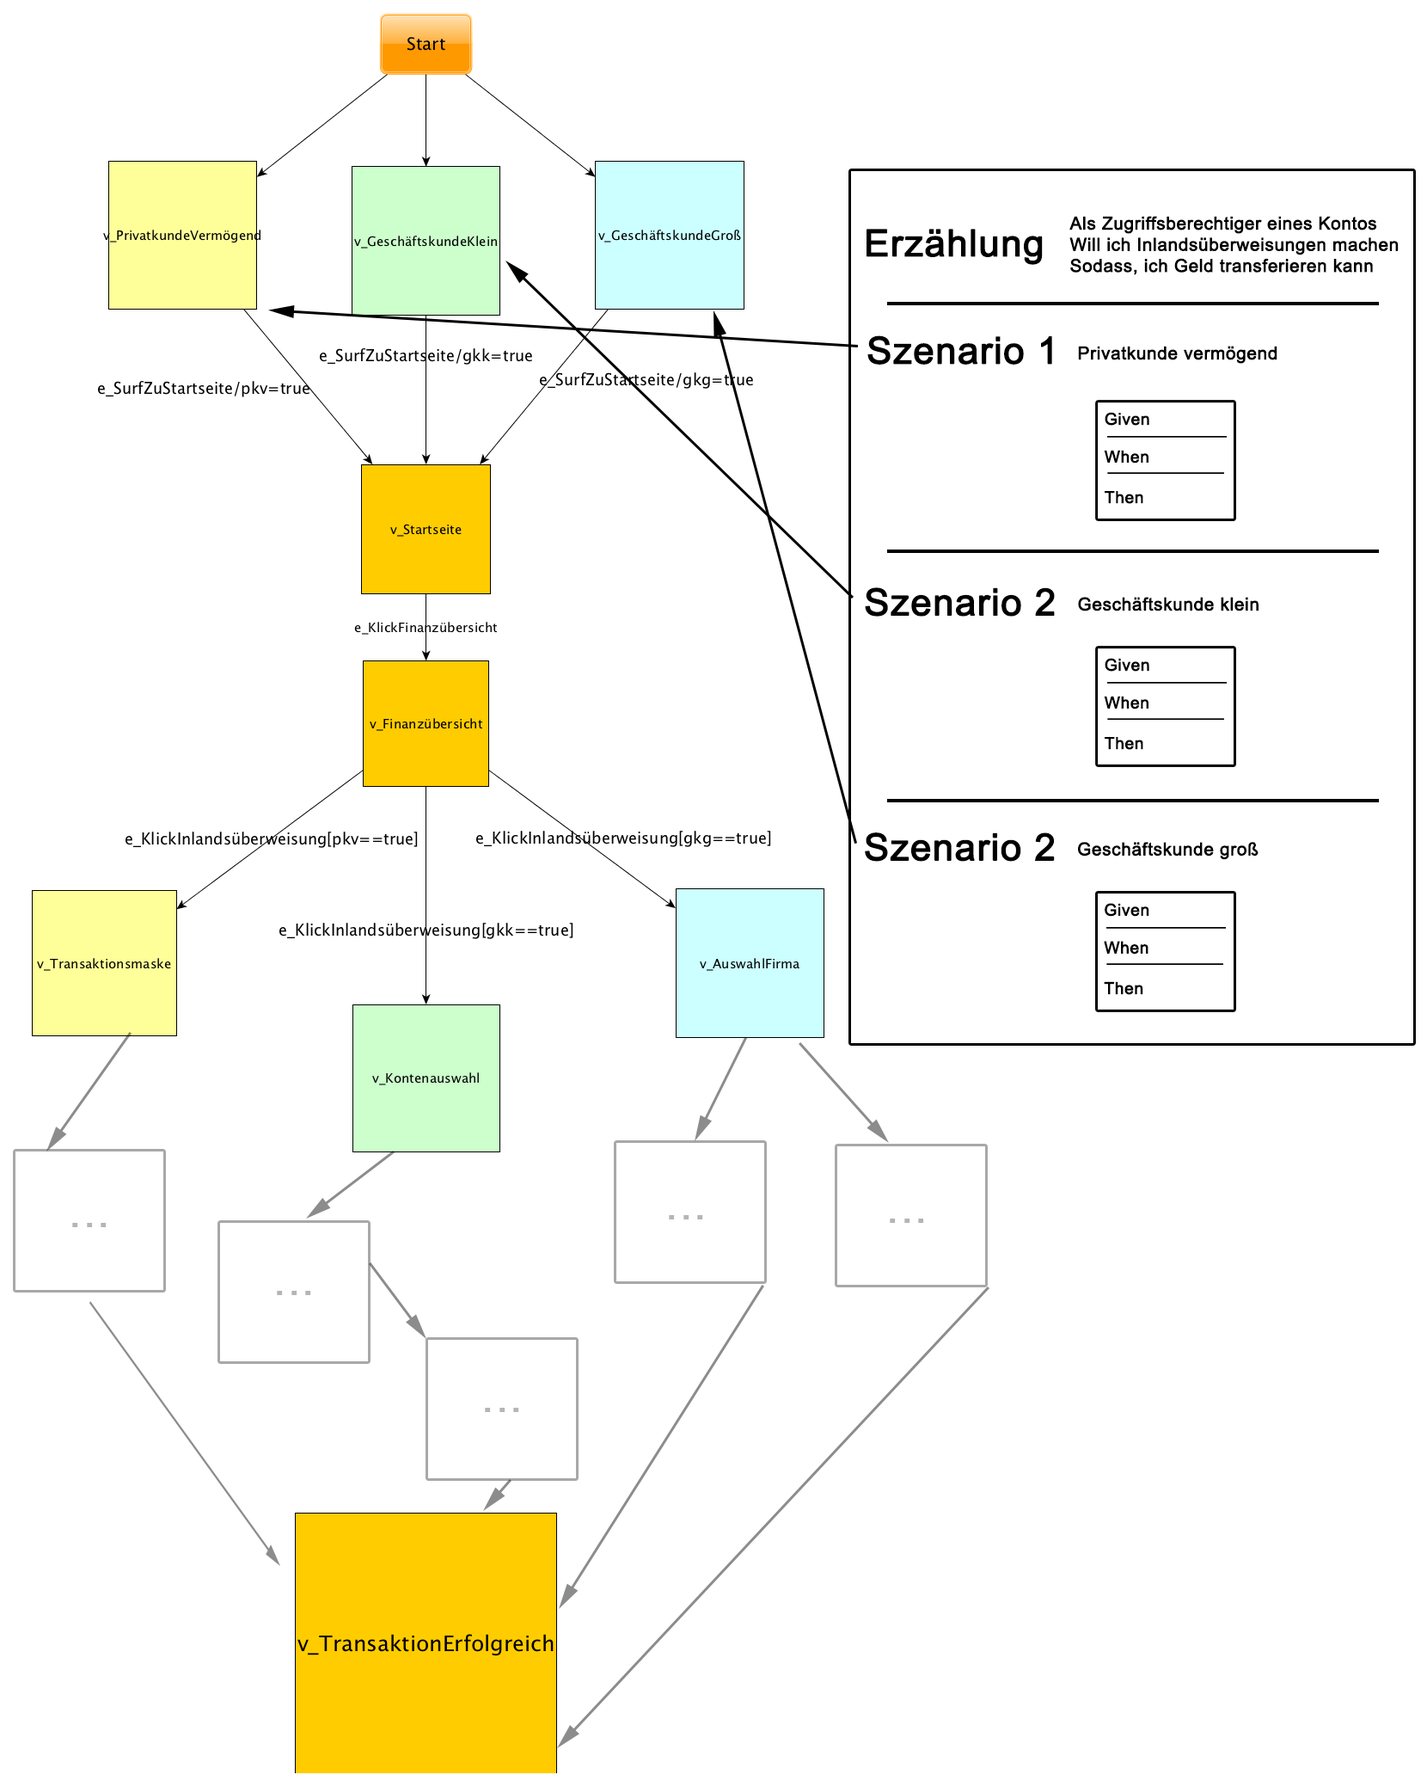
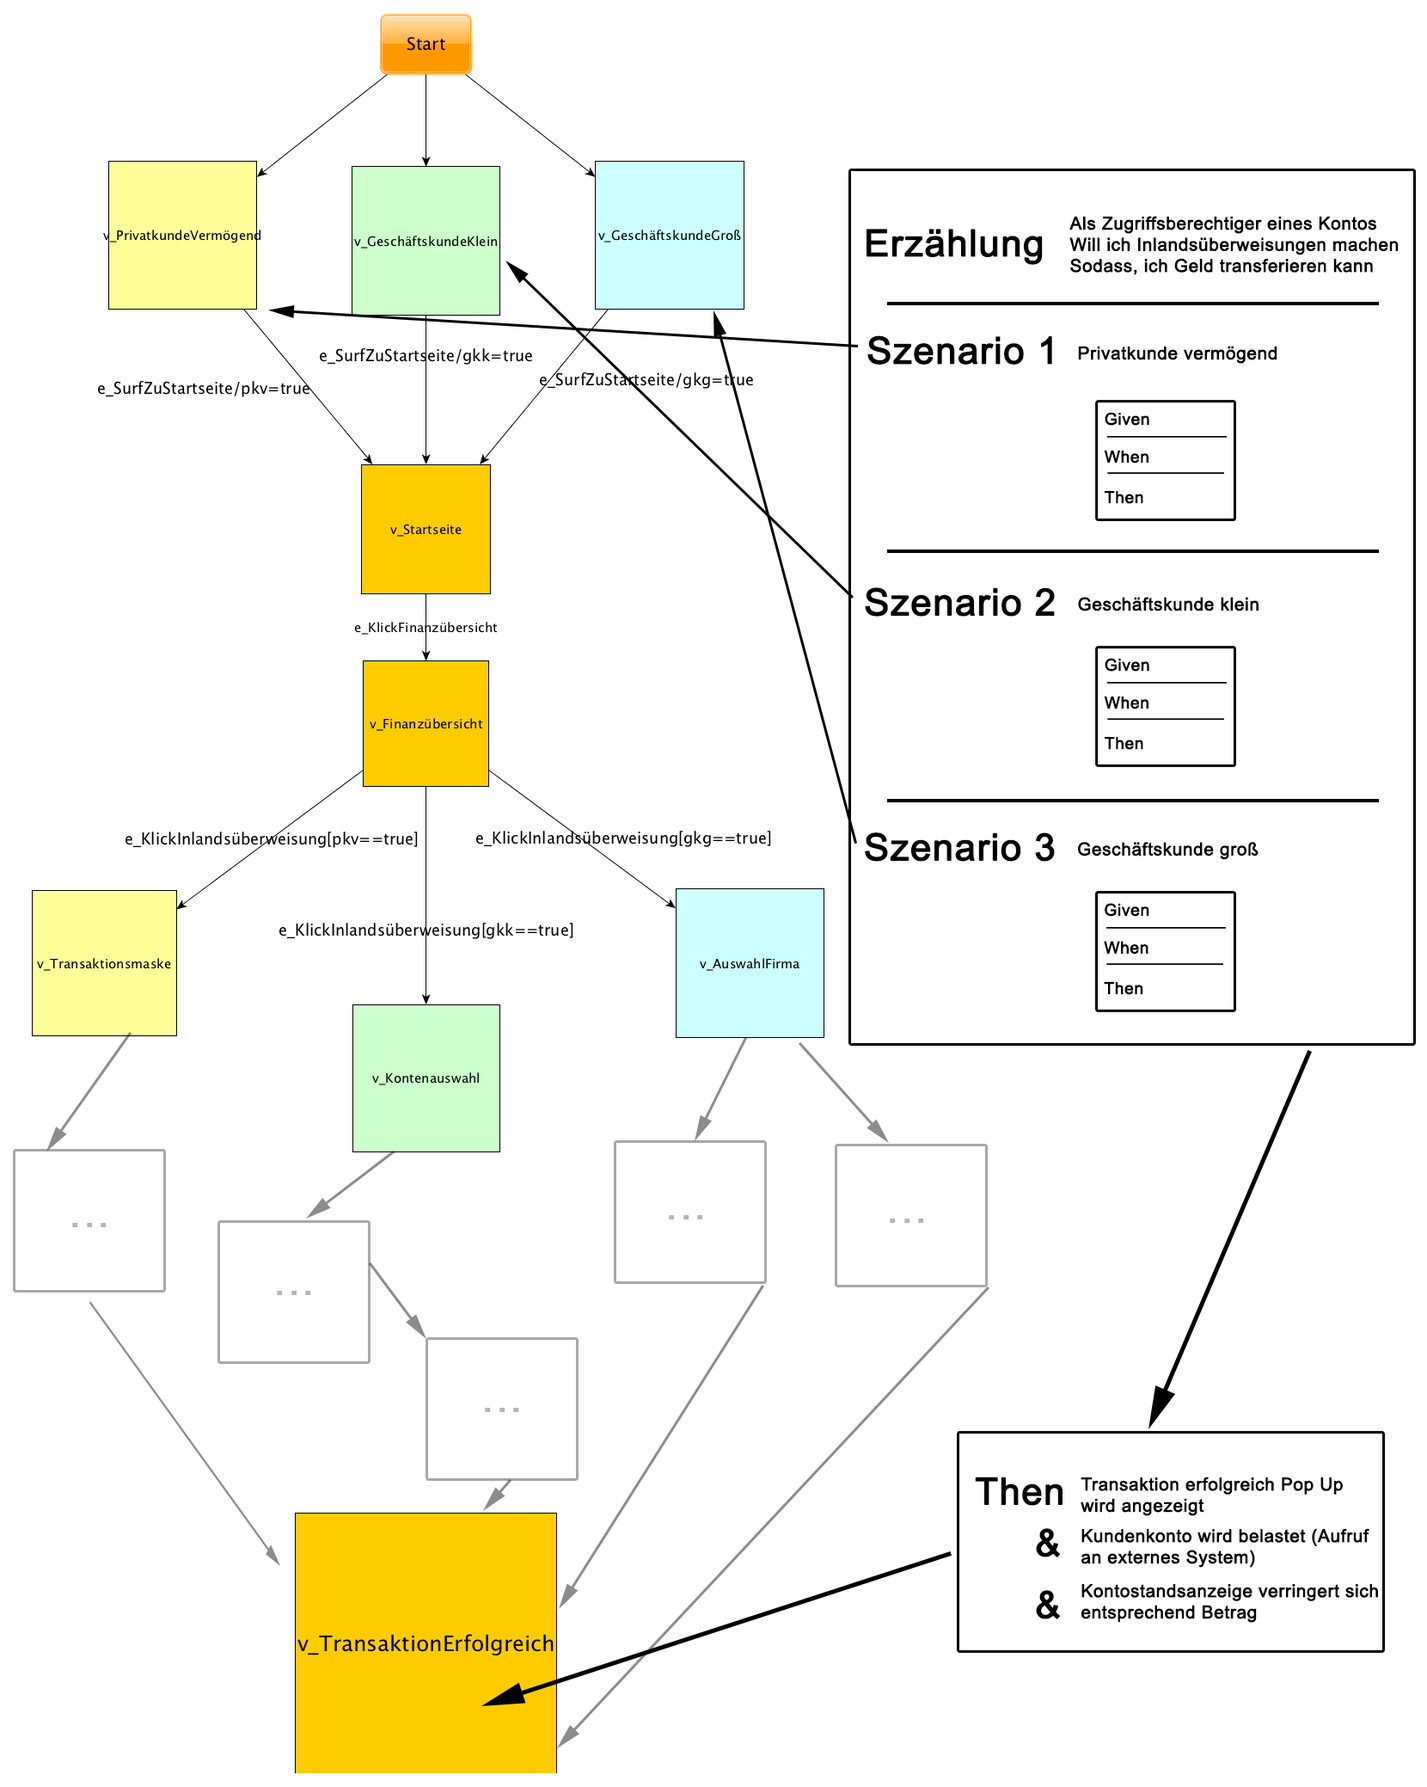
MBT/BDT section finalisiert, Kombination MBT/BDT auf Feedback hin überarbeitet

diff --git a/chapters/results.tex b/chapters/results.tex
@@ -235,11 +235,18 @@ public void v_Proposal_0() {
 
 \subsubsection{Modellbasierte Tests auf niedrigeren Ebenen} Dieses Beispiel zeigte die Mächtigkeit von Graphwalker in Verbindung mit einem Framework für das GUI-Testing. Statt eines GUI-Testing-Frameworks können aber beliebige andere Frameworks für den Adapter-Code verwendet werden. Damit wird das Testing auch auf Schnittstellen- und sogar auf Unit-Testebene möglich. In Verbindung mit einer sinnvollen Testing API zum \Gls{SUT}, können aber genauso Tests der Businesslogik modelliert werden. Also eine Art Unit-Test aus Sicht des Fachbereichs in Form eines Modells. Denkbar sind Abläufe wie das Laden eines Kunden, die Modifikation seiner Stammdaten und die abschließende Überprüfung ob diese Modifikationen fehlerfrei abgelegt wurden. Die Modelle lassen eine unbegrenzte Komplexität zu. Seltene, lange aber geschäftskritische Workflows lassen sich damit sehr gut darstellen.
 
-\section{Ausführung von BDT Tests innerhalb von MBT Tests}
+%%%%%%%%%%%%%%%%%%%%%%%%%%%%%%%%%%%%%%%%%%%%%%%%%%%
+\section{Stärken der Kombination von MBT und BDT}
+\label{sec:mbt_bdt}
 \todo[inline,color=yellow]{@Boris NEU HINZUGEKOMMEN ganze section}
+%%%%%%%%%%%%%%%%%%%%%%%%%%%%%%%%%%%%%%%%%%%%%%%%%%%%%%%
 
-Wie stark die Verwendung der drei Komponenten (FluentCoS, Testing API, MBT) dieses Konzepts ineinander verzahnt werden muss fallabhängig entschieden werden. Denkbar ist einerseits ein vollständig isolierter Entwurf und Einsatz von \Gls{BDT} und \Gls{MBT}. Beide Sorten von Tests können unabhängig voneinander betrieben und gewartet werden. Außerdem können \Gls{BDT} und \Gls{MBT} auf den reichen Katalog der Testing API zugreifen. Somit lässt sich viel Wartungsaufwand für die Anpassung von Adapter-Code an einer Stelle, in der Testing API, konzentrieren.\\
-Geht man einen Schritt weiter, kann es Sinn machen die strukturellen Ähnlichkeiten zwischen \Gls{BDT} und \Gls{MBT} Tests zu nutzen. Wie in Kapitel \ref{sec:bdd} erklärt, haben \Gls{BDT} Tests eine sehr einheitliche Form. Ausgehend von einem Startzustand, werden eine oder mehrere Aktionen durchgeführt, bis ein definierter Endzustand erreicht wird. Man stelle sich einen \Gls{BDT} Test als einfachen Pfad innerhalb eines Graphen vor.Tatsächlich könnte ein solcher Test in ein \Gls{MBT} Modell transformiert werden. Ein beträchtlicher Teil des Modells würde aber wahrscheinlich nur dazu dienen das \Gls{SUT} in den Startzustand zu führen. Im Gegensatz zum \Gls{BDT} Test, in dem dieser in der Regel sehr schnell aber dafür unpräziser definiert werden kann.
+Wie stark die Verwendung der drei Komponenten (FluentCoS, Testing API, MBT) dieses Konzepts ineinander verzahnt werden muss fallabhängig entschieden werden. Denkbar ist einerseits ein vollständig isolierter Entwurf und Einsatz von \Gls{BDT} und \Gls{MBT}. Beide Sorten von Tests können unabhängig voneinander betrieben und gewartet werden. Außerdem können \Gls{BDT} und \Gls{MBT} auf den reichen Katalog der Testing API zugreifen. Somit lässt sich viel Wartungsaufwand für die Anpassung von Adapter-Code an einer Stelle, in der Testing API, konzentrieren.
+
+\subsection{Parallelen zwischen MBT und BDT Testfällen}
+\label{sec:mbt_bdt_parallelen}
+
+Geht man einen Schritt weiter, kann es Sinn machen die strukturellen Ähnlichkeiten zwischen \Gls{BDT} und \Gls{MBT} Tests zu nutzen. Wie in Kapitel \ref{sec:bdd} erklärt, haben \Gls{BDT} Tests eine sehr einheitliche Form. Ausgehend von einem Startzustand, werden eine oder mehrere Aktionen durchgeführt, bis ein definierter Endzustand erreicht wird. Man stelle sich einen \Gls{BDT} Test als einfachen Pfad innerhalb eines Graphen vor. Tatsächlich könnte ein solcher Test in ein \Gls{MBT} Modell transformiert werden. Ein beträchtlicher Teil des Modells würde aber wahrscheinlich nur dazu dienen das \Gls{SUT} in den Startzustand zu führen. Im Gegensatz zum \Gls{BDT} Test, in dem dieser in der Regel sehr schnell aber dafür unpräziser definiert werden kann. Dieser Umstand wird in der Abbildung \ref{fig:mbt_bdt_given} veranschaulicht. Als Beispiel wird eine Internetbanking Umgebung angenommen.
 
 %Grafik: MBT vs BDT, langer schwanz bis startzustand erreicht. Ein pfad
 \begin{figure} 
@@ -249,9 +256,7 @@ Geht man einen Schritt weiter, kann es Sinn machen die strukturellen Ähnlichkei
   \label{fig:mbt_bdt_given}
 \end{figure}
 
-
-
-Nun würde die Aktion im \Gls{BDT} Test folgen. Diese wird, gerade in Cleartext \Gls{BDD} Spezifikation, oft nur kurz beschrieben (`Der Kunde macht eine Überweisung über 100 Euro an sein Sparkonto'). Dies hat zwei gravierende Nachteile: Einerseits ist abhängig vom Domänenwissen nicht klar was hier genau gemacht wird. Verschiedene Auffassungen können zu schwerwiegenden Fehlentscheidungen führen. Andererseits wird die Reproduktion durch die schwammige Definition unter Umständen sehr schwierig. Ganz anders im Falle eines \Gls{MBT} Modells. Pro Kante wird eine, aus der Sicht des Benutzers, atomare Aktion ausgeführt. Auch wenn es alternativen zur Ausführung einer Aktion gäbe, würde dies im Modell sofort ersichtlch.
+Nun würde die Aktion im \Gls{BDT} Test folgen. Diese wird, gerade in Cleartext \Gls{BDD} Spezifikation, oft nur kurz beschrieben (`Der Kunde macht eine Überweisung über 100 Euro an sein Sparkonto'). Dies hat zwei gravierende Nachteile: Einerseits ist abhängig vom Domänenwissen nicht klar was hier genau gemacht wird. Verschiedene Auffassungen können zu schwerwiegenden Fehlentscheidungen führen. Andererseits wird die Reproduktion durch die schwammige Definition unter Umständen sehr schwierig. Ganz anders im Falle eines \Gls{MBT} Modells. Pro Kante wird eine, aus der Sicht des Benutzers, atomare Aktion ausgeführt. Auch wenn es alternativen zur Ausführung einer Aktion gäbe, würde dies im Modell sofort ersichtlch. Abbildung \ref{fig:mbt_bdt_when} zeigt eine solche Situation. Während im \Gls{BDT} Test nur eine abstrakte Beschreibung dessen vorkommt, was als Ergebnis dieser Aktion passiert, ist das Modell sehr ausdrucksstark. Im Beispiel führt ein Tastaturkürzel, ein Button und ein über Rechtsklick aufgerufenes Kontextmenü zur selben Maske.
 
 %Grafik, WHEN teil, mehrere Alternativen wie EINE aktion ausgeführt werden kann
 \begin{figure} 
@@ -261,8 +266,20 @@ Nun würde die Aktion im \Gls{BDT} Test folgen. Diese wird, gerade in Cleartext 
   \label{fig:mbt_bdt_when}
 \end{figure}
 
-Das endgültige Akzeptanzkriterium (\textit{then}) ist in \Gls{MBT} in einem ausreichend detaillierten Modell (wie es das Modell \ref{fig:modell_logisch} ist) eine Überprüfung in Code. Aus dem Modell wird nicht klar welche Überprüfung in diesem Blattknoten stattfindet. Hier zeigt sich wieder das Problem, das sich Logik in der Implementierung des Modells versteckt. Im \Gls{BDT} Test kommen meist mehrere Kriterien zum Einsatz die gleichzeitig erfüllt sein müssen. Es macht auch Sinn Überprüfungen außerhalb des gerade getesteten Kontexts zu machen. Im \Gls{BDT} Beispieltestfall in Abschnitt \ref{sec:bdt_bsp} wird genau das gemacht, indem eine lokale Überprüfung stattfindet (`Die Karte sollte wieder ausgegeben werden' und `Eine erklärende Fehlermeldung soll angezeigt werden'). Außerdem wird eine Überprüfung des Zentralsystems gemacht (`Der Kontostand sollte unverändert bleiben). Am Beispiel Graphwalker würden solche Überprüfungen natürlich möglich sein. Es könnten dieselben Funktionen aus der Testing API verwendet werden, die auch im \Gls{BDT} Test vorkommen. Solche kontextübergreifenden Überprüfungen lassen sich in einem grafischen Modell aber nur schwer darstellen. Es wäre wiederum entscheidende Logik im Testcode verborgen.\\
-All diese Erkenntnisse zusammengefasst, erlauben eine Kombination von \Gls{BDT} und \Gls{MBT} die die Stärken beider Ansätze nutzt.
+Das endgültige Akzeptanzkriterium (\textit{then}) ist in \Gls{MBT} in einem ausreichend detaillierten Modell eine Überprüfung in Code. Auch im Beispiel \ref{fig:modell_logisch} aus Abschnitt \ref{sec:results_modellierung} ist im Modell nicht ersichtlich welche Überprüfungen im Blattknoten genau gemacht werden. Hier zeigt sich wieder das Problem, das sich Logik in der Implementierung des Modells versteckt. Abbildung \ref{fig:mbt_bdt_then} zeigt diesen Umstand grafisch. Im \Gls{BDT} Test kommen meist mehrere Kriterien zum Einsatz die gleichzeitig erfüllt sein müssen. Da dieser sehr Resultatsorientiert dargestellt und formuliert wird, ist sofort klar welche Eigenschaften des Systems im Resultatszustand geprüft werden. Es macht auch Sinn Überprüfungen außerhalb des gerade getesteten Kontexts zu machen. Im \Gls{BDT} Beispieltestfall in Abschnitt \ref{sec:bdt_bsp} wird genau das gemacht, indem eine lokale Überprüfung stattfindet (`Die Karte sollte wieder ausgegeben werden' und `Eine erklaerende Fehlermeldung soll angezeigt werden'). Außerdem wird eine Überprüfung des Zentralsystems gemacht (`Der Kontostand sollte unverändert bleiben). Am Beispiel Graphwalker würden solche Überprüfungen natürlich möglich sein. Es könnten dieselben Funktionen aus der Testing API verwendet werden, die auch im \Gls{BDT} Test vorkommen. Solche kontextübergreifenden Überprüfungen lassen sich in einem grafischen Modell aber nur schwer darstellen. Es wäre wiederum entscheidende Logik im Testcode verborgen. Codebeispiel \ref{lst:mbt_bdt_assertion} zeigt eine solche Einbettung von Überprüfungen in den Blattknoten aus Modell \ref{fig:mbt_bdt_then}.
+
+
+\begin{lstlisting}[caption=Überprüfungen mittels Testing API in Blattknoten, label=lst:mbt_bdt_assertion]
+/** Hier ist der THEN Teil des BDT Tests eingebettet */
+@Override
+public void v_TransaktionErfolgreich(){
+  //Aufrufe an die Testing API innerhalb JUnit Assertions
+  assert(TestingAPI.UI.transaktionErfolgreichPopUp());
+  assert(TestingAPI.External.kontoBelastet(customerId, kontostandAlt-betrag));
+  assert(TestingAPI.UI.anzeigeKontostand(kontostandAlt-betrag));
+}
+\end{lstlisting}
+
 
 %Grafik komplett und Beschreibung wie Szenarien mehrere Zweige sein können usw.
 \begin{figure} 
@@ -272,10 +289,12 @@ All diese Erkenntnisse zusammengefasst, erlauben eine Kombination von \Gls{BDT} 
   \label{fig:mbt_bdt_then}
 \end{figure}
 
-\section{Zugewinne durch die Kombination von BDD und MBT}
-Gerade für die agile Entwicklung ist die Kombination von BDD und \Gls{MBT} wie maßgeschneidert. Agile Entwicklung bedeutet unter anderem viel Kontakt mit dem Kunden und damit auch die Notwendigkeit der Auseinandersetzung mit Spezifikationen und Feedback. CoS-artige Definitionen kommen in vielen Softwareprojekten bereits zum Einsatz und sind daher sowohl dem fachlichen als auch dem technischen Personal bekannt. Der Schritt von CoS-Tabellen zu BDD-Testfällen, egal welches Framework dazu benutzt wird, ist schmerzlos. Wenn der Einsatz von BDD-Tests sorgfältig und gut koordiniert umgesetzt wird, ist die damit einhergehende Versionierung der \Gls{COS} ein wertvoller Nebeneffekt der die Organisation des Softwareprojekts vereinfacht.\\
-Eine ähnliche Kombination von Methoden schlägt auch \citeauthor{binder_model-based_2014} vor \cite{binder_model-based_2014}. Er warnt aber davor, dass BDD nur einen kleinen Teil des \textit{happy-path} abdecken. Soll heißen, dass das System mittels \Gls{COS} nur auf sehr wenigen Pfaden getestet wird. Außerdem wächst die Anzahl der zu wartenden BDD-Spezifikationen mit der Größe der Code-Basis. Meist hat dies zur Folge, dass ältere Spezifikationen in Vergessenheit geraten und nicht mehr in das Regressionstesting miteinbezogen werden. Um zweiterem Nachteil entgegenzuwirken müssen BDD-Spezifikationen sehr sorgfältig und mit Hinblick auf die Programmlogik entworfen werden. Außerdem muss die Versionierung Team-übergreifend nahtlos funktionieren.\\
-Aus Kundensicht sind \Gls{COS} oft notwendig, da sie kurz und bündig vertraglich festgehalten werden können. Wenn der Kunde beim Abnahmetest auf \Gls{COS} Spezifikationen besteht, muss das System trotzdem durch breitere Maßnahmen regressiv getestet werden. Hier ergänzen modellbasierte Tests die Qualitätssicherungsmaßnahmen. Ein \Gls{COS} kann als einzelner Pfad in einem Modell gesehen werden. Der modellbasierte Test prüft dann, mit variablem Grad an Assertions, alle anderen Pfade. Diese Vorgehensweise schafft eine weitere Schicht an Sicherheit und lässt sich gut in bestehende Projekt- und Softwarestrukturen integrieren.
+\subsection{Konzept zur kombinierten Verwendung von BDT und MBT}
+All die Erkenntnisse aus Abschnitt \ref{sec:mbt_bdt_parallelen} zusammengefasst, erlauben eine Kombination von \Gls{BDT} und \Gls{MBT} die die Stärken beider Ansätze nutzt.\\
+Auf oberster Ebene kann ein \Gls{BDT} Test, der aus N Szenarien besteht, in ein Modell mit N Startknoten oder Startpfaden dargestellt werden. Der Testentwickler wählt ein angemessenes Abstraktionsniveau und kann so die \textit{Given} Teile der einzelnen Szenarien inklusive dem Kontext aus der \Gls{BDT} Erzählung modellieren. Zu sehen sind diese Parallelen in der Abbildung \ref{fig:mbt_bdt_then}. In diesem Beispiel unterscheiden sich die Szenarien anhand der Art des Kunden der das \Gls{SUT} bedient. Dies kann als gegebene Konfiguration gesehen werden und somit als einzelner Knoten modelliert werden (so wie in der Abbildung \ref{fig:mbt_bdt_then}). Andererseits kann dieser Schritt auch ausmodelliert werden. Technisch ist diese Unterscheidung mit Graphwalker sehr elegant lösbar. Wie im Abschnitt \nameref{sec:graphwalker_funktionsweise} \ref{sec:graphwalker_funktionsweise} erklärt, werden hier \textit{Guards} genutz. Alle drei Szenarienknoten sind valide Einstiegspunkte für die Traversierung des Modells. Abhängig davon, von welchem Knoten die Traversierung gestartet wird, wird eine Guard Variable auf wahr gesetzt. Beginnt Graphwalker die Traversierung über den Knoten \texttt{v\_PrivatkundeVermögend} so wird die Variable \texttt{pkv} auf \texttt{true} gesetzt. Diese kann als globale Variable gesehen werden, die zu einem späteren Zeitpunkt während der Traversierung abgefragt werden kann.\\
+Wenn sich die \textit{When} Schritte in den Szenarien unterscheiden können diese vollständig dargestellt werden. Im Beispiel haben alle drei Szenarien diesen Teil gemeinsam und sind deshalb gleichfarbig. Im Hintergrund sind dies Codestücke die nicht mehrfach gewartet werden müssen! Auch wenn sich die Szenarien in diesem Teil unterscheiden kann hier die volle Stärke von \Gls{MBT} ausgenutzt werden und jeder Alternativpfad modelliert werden (so wie im vorangegangen Beispiel \ref{mbt_bdt_when}).\\
+Jedes Szenario kann nun seinen gänzlich eigenen Pfad einschlagen oder auch mit mehreren anderen Szenarien Pfade teilen. In den Blattknoten wird die erwähnte Expressivität des \Gls{BDT} \textit{Then} Teils genutzt. Da \Gls{BDT} Tests im Hintergrund als Adapter-Code die Testing API (siehe Abschnitt \ref{sec:testing_api}) verwenden, können diese Codefragmente problemlos in die Graphwalker Methoden eingebettet werden.\\
+Es ist empfehlenswert eine grafische oder dokumentarische Verbindung zwischen den so kombinierten Testfällen im Projekt zu halten. Gerade die Überprüfungen in den Blattknoten, in denen \Gls{BDT} Überprüfungen eingebettet sind, sind im Detail sehr interessant.
 
 \begin{figure}
 \hspace*{-2cm}
@@ -284,6 +303,13 @@ Aus Kundensicht sind \Gls{COS} oft notwendig, da sie kurz und bündig vertraglic
   \caption{BDT Szenarien können im Modell explizit dargestellt werden}
   \label{fig:mbt_bdt_gesamt}
 \end{figure}
+
+
+\section{Zugewinne durch die vorgestellte Teststrategie}
+Gerade für die agile Entwicklung ist die Kombination von BDD und \Gls{MBT} wie maßgeschneidert. Agile Entwicklung bedeutet unter anderem viel Kontakt mit dem Kunden und damit auch die Notwendigkeit der Auseinandersetzung mit Spezifikationen und Feedback. CoS-artige Definitionen kommen in vielen Softwareprojekten bereits zum Einsatz und sind daher sowohl dem fachlichen als auch dem technischen Personal bekannt. Der Schritt von CoS-Tabellen zu BDD-Testfällen, egal welches Framework dazu benutzt wird, ist schmerzlos. Wenn der Einsatz von BDD-Tests sorgfältig und gut koordiniert umgesetzt wird, ist die damit einhergehende Versionierung der \Gls{COS} ein wertvoller Nebeneffekt der die Organisation des Softwareprojekts vereinfacht.\\
+Eine ähnliche Kombination von Methoden schlägt auch \citeauthor{binder_model-based_2014} vor \cite{binder_model-based_2014}. Er warnt aber davor, dass BDD nur einen kleinen Teil des \textit{happy-path} abdecken. Soll heißen, dass das System mittels \Gls{COS} nur auf sehr wenigen Pfaden getestet wird. Außerdem wächst die Anzahl der zu wartenden \Gls{BDD}-Spezifikationen mit der Größe der Code-Basis. Meist hat dies zur Folge, dass ältere Spezifikationen in Vergessenheit geraten und nicht mehr in das Regressionstesting miteinbezogen werden. Um zweiterem Nachteil entgegenzuwirken müssen \Gls{BDD}-Spezifikationen sehr sorgfältig und mit Hinblick auf die Programmlogik entworfen werden. Außerdem muss die Versionierung Team-übergreifend nahtlos funktionieren.\\
+Aus Kundensicht sind \Gls{COS} oft notwendig, da sie kurz und bündig vertraglich festgehalten werden können. Auch wenn der Kunde beim Abnahmetest auf \Gls{COS} Spezifikationen besteht, muss das System durch breitere Maßnahmen regressiv getestet werden. Hier ergänzen modellbasierte Tests die Qualitätssicherungsmaßnahmen. Ein \Gls{COS} kann als einzelner Pfad in einem Modell gesehen werden. Der modellbasierte Test prüft dann, mit variablem Grad an Assertions, alle anderen Pfade. Diese Vorgehensweise schafft eine weitere Schicht an Sicherheit und lässt sich gut in bestehende Projekt- und Softwarestrukturen integrieren. Durch die Nutzung einer durchdachten Testing API (wie in Abschnitt \ref{sec:testing_api} beschrieben) können Wartungsaufwände minimiert werden, indem nur eine Codebasis für Adapter-Code besteht. Die Testing API stellt außerdem eine zukunftssichere Barriere vor Änderungen auf Seiten des Testwerkzeuges dar. Dieses kann ausgetauscht werden ohne die Aufwände für die Anbindung des \Gls{SUT} zunichte zu machen.\\
+Die in Abschnitt \ref{sec:mbt_bdt} vorgeschlagene kombinierte Verwendung von \Gls{BDT} und \Gls{MBT} lässt das Projekt von den Stärken beider Ansätze profitieren. \Gls{BDT} und \Gls{MBT} lassen sich sehr flexibel miteinander verschmelzen und sowohl den technischen als auch den organisatorisch geschäftlichen Prozessen anpassen. Das \Gls{SUT} kann damit systematischer und flächendeckender getestet werden ohne signifankte Mehraufwände in Kauf nehmen zu müssen.
 
 
 
